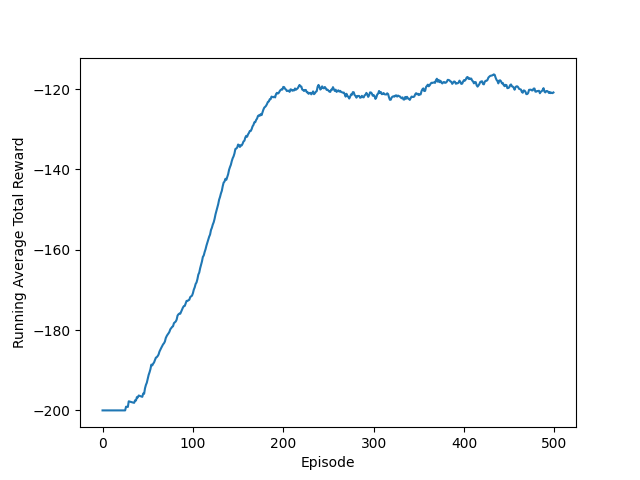
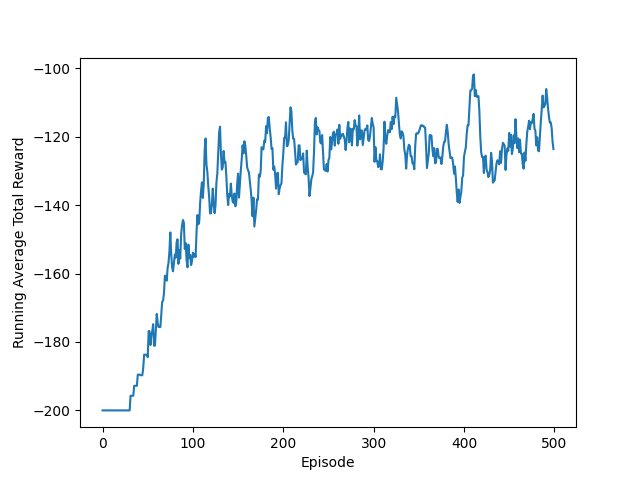
h

diff --git a/MountainCar_TD_Lambda_Q_value_fun_approx.py b/MountainCar_TD_Lambda_Q_value_fun_approx.py
@@ -14,9 +14,7 @@ from sklearn.pipeline import FeatureUnion
 from sklearn.preprocessing import StandardScaler
 from sklearn.kernel_approximation import RBFSampler
 from tqdm import tqdm
-from sklearn.linear_model import SGDRegressor
-# code we already wrote
-# import q_learning
+# from sklearn.linear_model import SGDRegressor
 ###############################################################################
 class SGDRegressor_modified:
   # we implement and modify the SGD regressor!
@@ -153,7 +151,7 @@ def plot_running_avg(totalrewards):
   N = len(totalrewards)
   running_avg = np.empty(N)
   for t in range(N):
-    running_avg[t] = totalrewards[max(0, t-100):(t+1)].mean()
+    running_avg[t] = totalrewards[max(0, t-10):(t+1)].mean()
   plt.plot(running_avg)
   plt.ylabel("Running Average Total Reward")
   plt.xlabel("Episode")
@@ -182,7 +180,7 @@ def plot_avg_num_remaining_steps(env, estimator, num_tiles=20):
   ax.set_zlabel('Num steps to reach mountain == -V(s)')
   ax.set_title("Num steps to Reach Mountain Function")
   fig.colorbar(surf)
-  fig.savefig("./figs/Num_steps_to_Reach_Mountain.png")
+  # fig.savefig("./figs/Num_steps_to_Reach_Mountain.png")
   # plt.show()
   plt.close()
 ###############################################################################
@@ -193,7 +191,7 @@ if __name__ == '__main__':
   discount_rate = 0.9999
   lambda_ = 0.7
   #
-  if True:
+  if False:
     monitor_dir = os.getcwd() + "/videos/" + str(datetime.now())
     env = wrappers.Monitor(env, monitor_dir)
   #
@@ -214,7 +212,7 @@ if __name__ == '__main__':
   #
   plt.plot(totalrewards)
   plt.title("Rewards")
-  plt.savefig("./figs/Average_Total_Reward.png")
+  # plt.savefig("./figs/Average_Total_Reward.png")
   plt.show()
   plt.close()
   #
